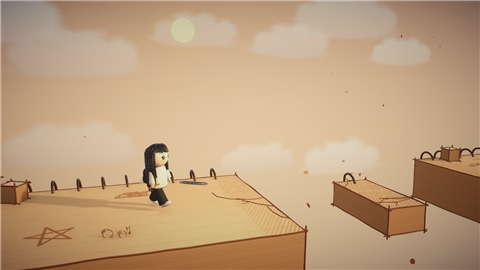
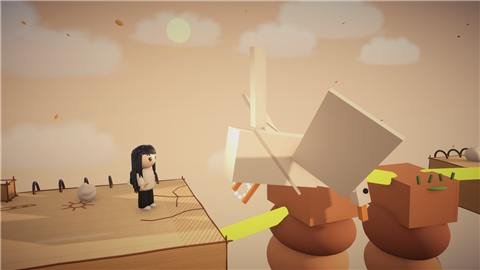
صفحة الوادي: أعمدة حجر حقيقية، وطير ورق كبير يصيح وينقض ويخطف الجسور

diff --git a/Assets/Scripts/NewMechanics.cs b/Assets/Scripts/NewMechanics.cs
@@ -18,8 +18,8 @@ public static class NewFeatures
                 if ((int)m.x == i) portal.MoveExit(m.y, m.z, gm);
         }
         foreach (Vector3 g in data.gates) PortalGate.Create(root, g, gm, rng, data);
-        foreach (Vector3 peg in data.pegs)
-            LevelBuilder.CreatePaperBlock(root, new Block(new Vector3(peg.x, peg.y - 0.3f, 0f), new Vector3(peg.z, 0.6f, 2.2f)), gm, rng, data, false);
+        foreach (Vector3 peg in data.pegs) StonePillar.Create(root, peg, gm);
+        foreach (Vector4 b in data.birds) PaperBird.Create(root, b, gm);
         if (data.darkness) BuildDarkness(root, data, gm);
     }
 
@@ -1081,5 +1081,226 @@ public class PortalBall : MonoBehaviour
         Fx.Sparkle(transform.position, new Color(0.7f, 0.6f, 1f), 14);
         if (GameManager.Instance != null) GameManager.Instance.Sound.PlayPoof();
         Destroy(gameObject);
+    }
+}
+
+// ---------- الوادي: أعمدة حجر وطير ورق ----------
+
+// عمود حجر طالع من قاع الوادي (حجارة فوق بعض، وفوقه عشب)
+public static class StonePillar
+{
+    public static void Create(Transform root, Vector3 spec, GameManager gm)
+    {
+        var go = new GameObject("Stone Pillar");
+        go.transform.SetParent(root, false);
+        float x = spec.x, top = spec.y, w = spec.z, bottom = top - 14f;
+        go.transform.position = new Vector3(x, (top + bottom) * 0.5f, 0f);
+        var col = go.AddComponent<BoxCollider>();
+        col.size = new Vector3(w, top - bottom, 2f);
+
+        Material[] stone =
+        {
+            gm.Mat("Canyon Stone A", new Color(0.78f, 0.52f, 0.36f), 0.15f),
+            gm.Mat("Canyon Stone B", new Color(0.66f, 0.42f, 0.3f), 0.12f),
+            gm.Mat("Canyon Stone C", new Color(0.86f, 0.62f, 0.44f), 0.15f),
+        };
+        Material moss = gm.Mat("Canyon Moss", new Color(0.45f, 0.68f, 0.32f), 0.25f);
+        Material grass = gm.Mat("Canyon Grass", new Color(0.35f, 0.58f, 0.25f), 0.2f);
+        var rng = new System.Random((int)(x * 10f));
+        float y = top - 0.4f;
+        int k = 0;
+        while (y > bottom)
+        {
+            float h = 0.7f + (float)rng.NextDouble() * 0.4f;
+            float ww = w * (1.02f + (float)rng.NextDouble() * 0.18f) * (1f + k * 0.03f);
+            // أول حجر مسطح (عشان السطح)، والباقي حجارة مدورة
+            bool slab = k == 0;
+            var s = LevelBuilder.Visual("Stone", slab ? PrimitiveType.Cube : PrimitiveType.Sphere, go.transform, Vector3.zero,
+                slab ? new Vector3(ww, h, 1.9f) : new Vector3(ww * 1.3f, h * 1.35f, 2.2f + (float)rng.NextDouble() * 0.3f), stone[k % 3]);
+            s.transform.position = new Vector3(x + ((float)rng.NextDouble() - 0.5f) * 0.12f, y, 0f);
+            s.transform.rotation = Quaternion.Euler(0f, ((float)rng.NextDouble() - 0.5f) * 14f, ((float)rng.NextDouble() - 0.5f) * 6f);
+            y -= h * 0.92f;
+            k++;
+        }
+        // غطا عشب فوق
+        var cap = LevelBuilder.Visual("Moss", PrimitiveType.Sphere, go.transform, Vector3.zero, new Vector3(w * 1.15f, 0.22f, 2.1f), moss);
+        cap.transform.position = new Vector3(x, top - 0.02f, 0f);
+        for (int i = 0; i < 4; i++)
+        {
+            var blade = LevelBuilder.Visual("Grass", PrimitiveType.Cube, go.transform, Vector3.zero, new Vector3(0.05f, 0.28f, 0.05f), grass, false);
+            blade.transform.position = new Vector3(x - w * 0.4f + i * w * 0.27f, top + 0.15f, -0.85f);
+            blade.transform.rotation = Quaternion.Euler(0f, 0f, (i % 2 == 0 ? 1 : -1) * 15f);
+        }
+    }
+}
+
+// طير ورق (أوريغامي) كبير: يصيح، وبعدين ينقض على الحفرة ويخطف أي خط بطريقه.
+// رويدا تستنى عند الطرف لين يعدي، وأنتِ ترسمين الجسور وراه
+public class PaperBird : MonoBehaviour
+{
+    const float Period = 8f, Warn = 1.5f, Swoop = 1.9f;
+    float from, to, low, phase, start, nextCry;
+    Transform model, wingL, wingR, alert;
+    readonly List<GameObject> carried = new List<GameObject>();
+    bool holding, wasSwoop;
+
+    public static void Create(Transform root, Vector4 spec, GameManager gm)
+    {
+        var go = new GameObject("Paper Bird");
+        go.transform.SetParent(root, false);
+        var b = go.AddComponent<PaperBird>();
+        b.from = spec.x; b.to = spec.y; b.low = spec.z; b.phase = spec.w;
+        b.start = Time.time;
+        b.Build(gm);
+        go.transform.position = b.Park;
+    }
+
+    void Build(GameManager gm)
+    {
+        Material paper = gm.Mat("Bird Paper", new Color(0.97f, 0.95f, 0.9f), 0.2f);
+        Material fold = gm.Mat("Bird Fold", new Color(0.83f, 0.8f, 0.76f), 0.2f);
+        Material beak = gm.Mat("Bird Beak", new Color(1f, 0.62f, 0.25f), 0.3f);
+        Material black = gm.Mat("Monster Pupil", new Color(0.05f, 0.04f, 0.06f), 0.9f);
+        Material red = gm.Mat("Bird Alert", new Color(1f, 0.25f, 0.25f), 0.4f);
+
+        model = new GameObject("Model").transform;
+        model.SetParent(transform, false);
+        // الجسم: معيّن ورق
+        var body = LevelBuilder.Visual("Body", PrimitiveType.Cube, model, Vector3.zero, new Vector3(1.1f, 1.1f, 0.5f), paper).transform;
+        body.localRotation = Quaternion.Euler(0f, 0f, 45f);
+        body.localScale = new Vector3(1.3f, 0.7f, 0.5f);
+        LevelBuilder.Visual("Fold", PrimitiveType.Cube, model, new Vector3(0f, -0.05f, -0.26f), new Vector3(1.2f, 0.04f, 0.02f), fold, false);
+        // الرقبة والراس (لقدام فوق) والذيل (لورا فوق)
+        var neck = LevelBuilder.Visual("Neck", PrimitiveType.Cube, model, new Vector3(0.85f, 0.45f, 0f), new Vector3(1.1f, 0.18f, 0.2f), paper).transform;
+        neck.localRotation = Quaternion.Euler(0f, 0f, 40f);
+        var head = LevelBuilder.Visual("Head", PrimitiveType.Cube, model, new Vector3(1.38f, 0.82f, 0f), new Vector3(0.45f, 0.22f, 0.24f), paper).transform;
+        head.localRotation = Quaternion.Euler(0f, 0f, -20f);
+        var bk = LevelBuilder.Visual("Beak", PrimitiveType.Cube, model, new Vector3(1.7f, 0.7f, 0f), new Vector3(0.38f, 0.1f, 0.12f), beak).transform;
+        bk.localRotation = Quaternion.Euler(0f, 0f, -25f);
+        LevelBuilder.Visual("Eye", PrimitiveType.Sphere, model, new Vector3(1.4f, 0.86f, -0.13f), Vector3.one * 0.09f, black, false);
+        var tail = LevelBuilder.Visual("Tail", PrimitiveType.Cube, model, new Vector3(-0.95f, 0.4f, 0f), new Vector3(1.1f, 0.16f, 0.2f), paper).transform;
+        tail.localRotation = Quaternion.Euler(0f, 0f, -35f);
+        // الجناحات: مثلثات ورق ترفرف (واحد قدام، وواحد ورا)
+        wingL = Wing(model, paper, fold, -0.35f);
+        wingR = Wing(model, fold, paper, 0.35f);
+        // مخالب
+        for (int i = 0; i < 2; i++)
+        {
+            var claw = LevelBuilder.Visual("Claw", PrimitiveType.Cube, model, new Vector3(-0.05f + i * 0.25f, -0.55f, 0f), new Vector3(0.06f, 0.4f, 0.06f), beak, false).transform;
+            claw.localRotation = Quaternion.Euler(0f, 0f, 15f);
+        }
+        model.localScale = Vector3.one * 1.25f;
+
+        // علامة تعجب حمرا فوق الحفرة قبل لا ينقض
+        alert = new GameObject("Bird Alert").transform;
+        alert.SetParent(transform.parent, false);
+        alert.position = new Vector3((from + to) * 0.5f, 3.4f, -0.5f);
+        LevelBuilder.Visual("Bar", PrimitiveType.Cube, alert, new Vector3(0f, 0.25f, 0f), new Vector3(0.18f, 0.6f, 0.1f), red, false);
+        LevelBuilder.Visual("Dot", PrimitiveType.Sphere, alert, new Vector3(0f, -0.25f, 0f), Vector3.one * 0.2f, red, false);
+        alert.gameObject.SetActive(false);
+    }
+
+    static Transform Wing(Transform parent, Material a, Material b, float z)
+    {
+        var pivot = new GameObject("Wing").transform;
+        pivot.SetParent(parent, false);
+        pivot.localPosition = new Vector3(0f, 0.2f, z);
+        var w = LevelBuilder.Visual("Wing Sheet", PrimitiveType.Cube, pivot, new Vector3(0f, 0f, 0f), new Vector3(0.9f, 0.05f, 1.6f), a).transform;
+        w.localPosition = new Vector3(0f, 0f, Mathf.Sign(z) * 0.8f);
+        w.localRotation = Quaternion.Euler(0f, 35f, 0f);
+        LevelBuilder.Visual("Wing Fold", PrimitiveType.Cube, w, new Vector3(0f, 0.6f, 0f), new Vector3(0.05f, 1f, 0.9f), b, false);
+        return pivot;
+    }
+
+    Vector3 Park => new Vector3(from - 3f, 9.5f, 2f);
+    float Local => Mathf.Repeat(Time.time - start + phase, Period);
+    bool Swooping => Local < Swoop;
+    float UntilSwoop => Swooping ? 0f : Period - Local;
+
+    void Update()
+    {
+        GameManager gm = GameManager.Instance;
+        if (gm == null) return;
+        bool swooping = Swooping;
+        float until = UntilSwoop;
+
+        // رفرفة
+        float flap = Mathf.Sin(Time.time * (swooping ? 7f : 4f)) * (swooping ? 25f : 40f);
+        wingL.localRotation = Quaternion.Euler(-flap, 0f, 0f);
+        wingR.localRotation = Quaternion.Euler(flap, 0f, 0f);
+
+        // تحذير: صيحة وعلامة تعجب
+        bool warn = !swooping && until < Warn;
+        alert.gameObject.SetActive(warn && Mathf.Repeat(Time.time * 4f, 1f) < 0.65f);
+        if (warn && Time.time >= nextCry)
+        {
+            nextCry = Time.time + 0.45f;
+            gm.Sound.PlaySqueak(Random.Range(1.9f, 2.3f));
+        }
+
+        if (swooping)
+        {
+            // ينزل من فوق اليسار، يمر تحت مستوى الجسور، ويطلع فوق اليمين
+            float s = Local / Swoop;
+            float x = Mathf.Lerp(from - 2.5f, to + 2.5f, s);
+            float d = 2f * s - 1f;
+            float y = low + (9f - low) * d * d;
+            float slope = (9f - low) * 2f * d * 2f / (to - from + 5f);
+            transform.position = new Vector3(x, y, -1.4f);   // قدام الأعمدة عشان يبان وهو ينقض
+            model.localRotation = Quaternion.Euler(0f, 0f, Mathf.Atan(slope) * Mathf.Rad2Deg);
+            if (!wasSwoop) gm.Sound.PlayLaser();
+            Snatch(gm);
+        }
+        else
+        {
+            if (wasSwoop) DropCarried();
+            // يحوم بعيد فوق
+            transform.position = Vector3.Lerp(transform.position, Park + new Vector3(Mathf.Sin(Time.time * 0.6f) * 2f, Mathf.Sin(Time.time * 1.1f) * 0.5f, 0f), Time.deltaTime * 1.5f);
+            model.localRotation = Quaternion.Slerp(model.localRotation, Quaternion.identity, Time.deltaTime * 3f);
+        }
+        wasSwoop = swooping;
+
+        // رويدا تستنى عند الطرف لين يكون عندها وقت تعدي قبل الطير الجاي
+        RowaidaController rowaida = gm.Rowaida;
+        if (rowaida == null) return;
+        Vector3 r = rowaida.transform.position;
+        float cross = (to - from + 1.4f) / Mathf.Max(0.1f, rowaida.walkSpeed);
+        bool atEdge = r.x > from - 1.1f && r.x < from - 0.1f && r.y > -0.5f;
+        if (atEdge && until < cross && gm.IsPlaying) { rowaida.Held = true; rowaida.CarryX = 0f; holding = true; }
+        else if (holding) { rowaida.Held = false; holding = false; }
+    }
+
+    // يخطف الخطوط اللي قريبة منه (فوق الحفرة)
+    void Snatch(GameManager gm)
+    {
+        Vector3 p = transform.position;
+        p.z = 0f;
+        foreach (InkMark mark in Object.FindObjectsByType<InkMark>(FindObjectsSortMode.None))
+        {
+            if (carried.Contains(mark.gameObject)) continue;
+            var rend = mark.GetComponent<MeshRenderer>();
+            if (rend == null) continue;
+            Bounds b = rend.bounds;
+            if (b.center.x < from - 0.5f || b.center.x > to + 0.5f) continue;
+            if (b.SqrDistance(p) > 1.6f * 1.6f) continue;
+            foreach (Collider c in mark.GetComponentsInChildren<Collider>()) c.enabled = false;
+            var body = mark.GetComponent<Rigidbody>();
+            if (body != null) body.isKinematic = true;
+            mark.transform.SetParent(transform, true);
+            carried.Add(mark.gameObject);
+            Fx.Sparkle(b.center, new Color(1f, 1f, 0.9f), 10);
+            gm.Sound.PlayChomp();
+        }
+    }
+
+    void DropCarried()
+    {
+        foreach (GameObject g in carried)
+            if (g != null)
+            {
+                Fx.Sparkle(g.transform.position, new Color(1f, 1f, 0.9f), 8);
+                Destroy(g);
+            }
+        carried.Clear();
     }
 }

diff --git a/Assets/Scripts/LevelData.cs b/Assets/Scripts/LevelData.cs
@@ -139,6 +139,7 @@ public class LevelData
     public List<Vector3> gates = new List<Vector3>();       // البوابات: باب مقفل (x الباب، x الزر، ارتفاع الرف)
     public float maxSpan;                                   // الوادي: الخط أطول من كذا ينكسر تحت رويدا (0 = ما فيه)
     public List<Vector3> pegs = new List<Vector3>();        // الوادي: حجارة طايرة (x، سطحها، عرضها)
+    public List<Vector4> birds = new List<Vector4>();       // الوادي: طير ورق ينقض على حفرة (من x، لـ x، أوطى نقطة، تأخير)
     public List<Vector3> pins = new List<Vector3>();        // البالونات: دبابيس معلقة تفجر البالونة (من x، لـ x، ارتفاعها)
     public List<Vector3> fans = new List<Vector3>();        // البالونات: مروحة تدف البالونة لليمين (من x، لـ x، ارتفاع الطيران)
     public bool darkness;                                   // اليراعات: ظلام، فانوس مع رويدا، وخطوط تضوي
@@ -549,17 +550,18 @@ public static class Levels
         return level;
     }
 
-    // صفحة الوادي: الخط الطويل ينكسر تحت رويدا، فترسمين جسور قصيرة بين حجارة طايرة
+    // صفحة الوادي: أعمدة حجر بين الحفر، والخط الطويل ينكسر. وطير ورق كبير يصيح وينقض ويخطف الخطوط:
+    // رويدا تستنى لين يعدي، وأنتِ ترسمين الجسور وراه بسرعة
     static LevelData CanyonLevel()
     {
         return new LevelData
         {
             title = "صفحة الوادي",
             theme = LevelTheme.Canyon(),
-            subtitle = "الخط الطويل ينكسر! ارسمي جسور قصيرة بين الحجارة",
+            subtitle = "طير الورق يخطف الخطوط! خليه يعدي وارسمي وراه",
             spawn = new Vector3(-5f, 1f, 0f),
             door = new Vector3(41f, 0f, 0f),
-            ink = 30f,
+            ink = 32f,
             maxSpan = 3.4f,
             blocks =
             {
@@ -568,13 +570,18 @@ public static class Levels
                 Page(23f, 28f),
                 Page(34f, 44f),
             },
-            // حجارة: x، سطحها، عرضها
+            // أعمدة حجر: x، سطحها، عرضها
             pegs =
             {
-                new Vector3(7f, -0.2f, 1f),
-                new Vector3(17.6f, 0.5f, 1f),
-                new Vector3(20.4f, 0.1f, 1f),
-                new Vector3(31f, -0.5f, 1f),
+                new Vector3(7f, -0.2f, 1.2f),
+                new Vector3(17.6f, 0.5f, 1.2f),
+                new Vector3(20.4f, 0.1f, 1.2f),
+                new Vector3(31f, -0.5f, 1.2f),
+            },
+            birds =
+            {
+                new Vector4(15f, 23f, -0.8f, 0f),
+                new Vector4(28f, 34f, -0.8f, 4f),
             },
         };
     }
